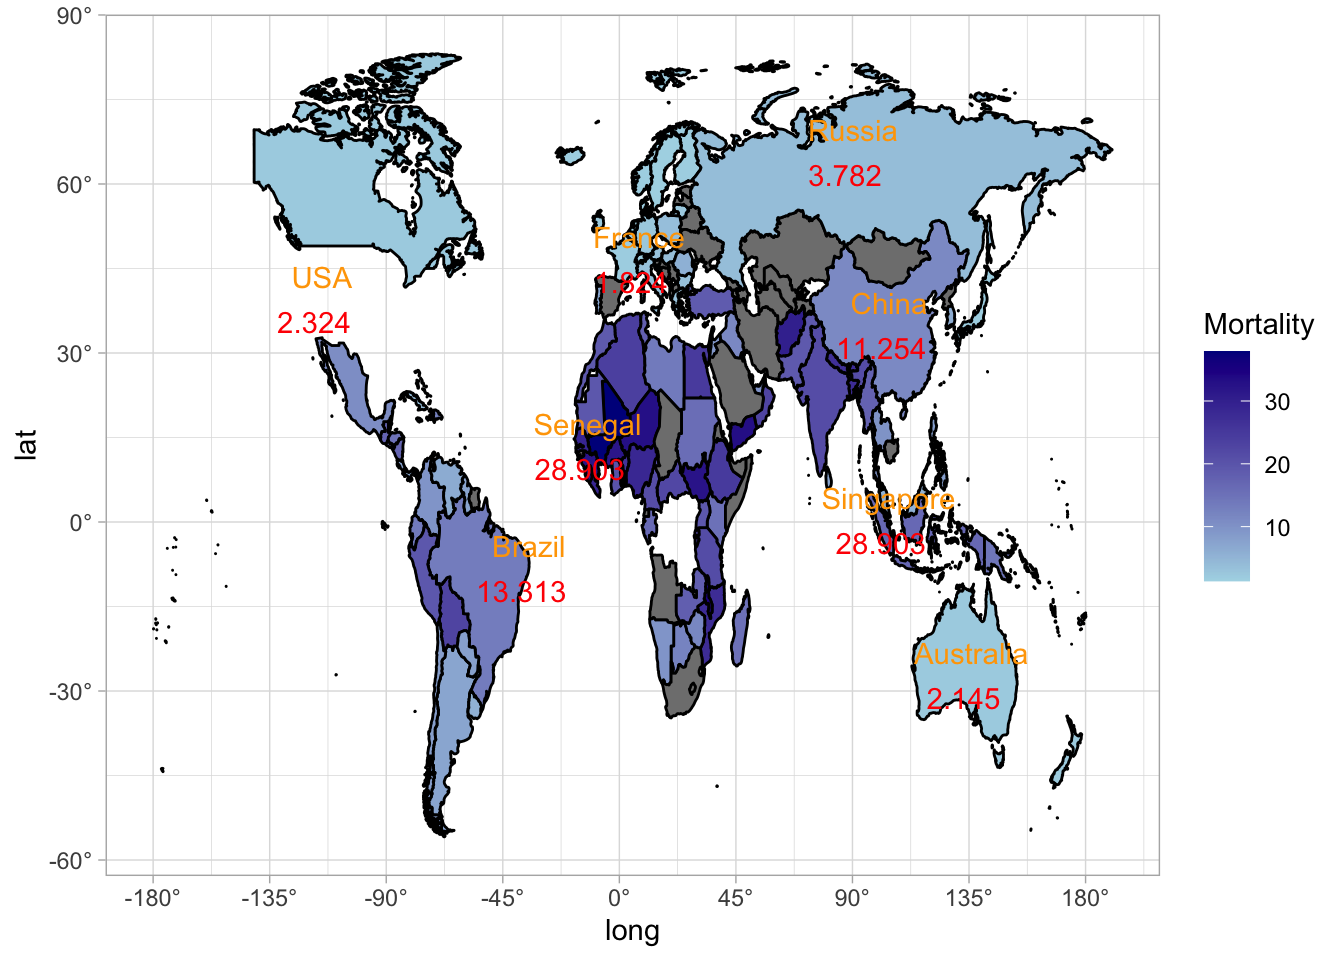
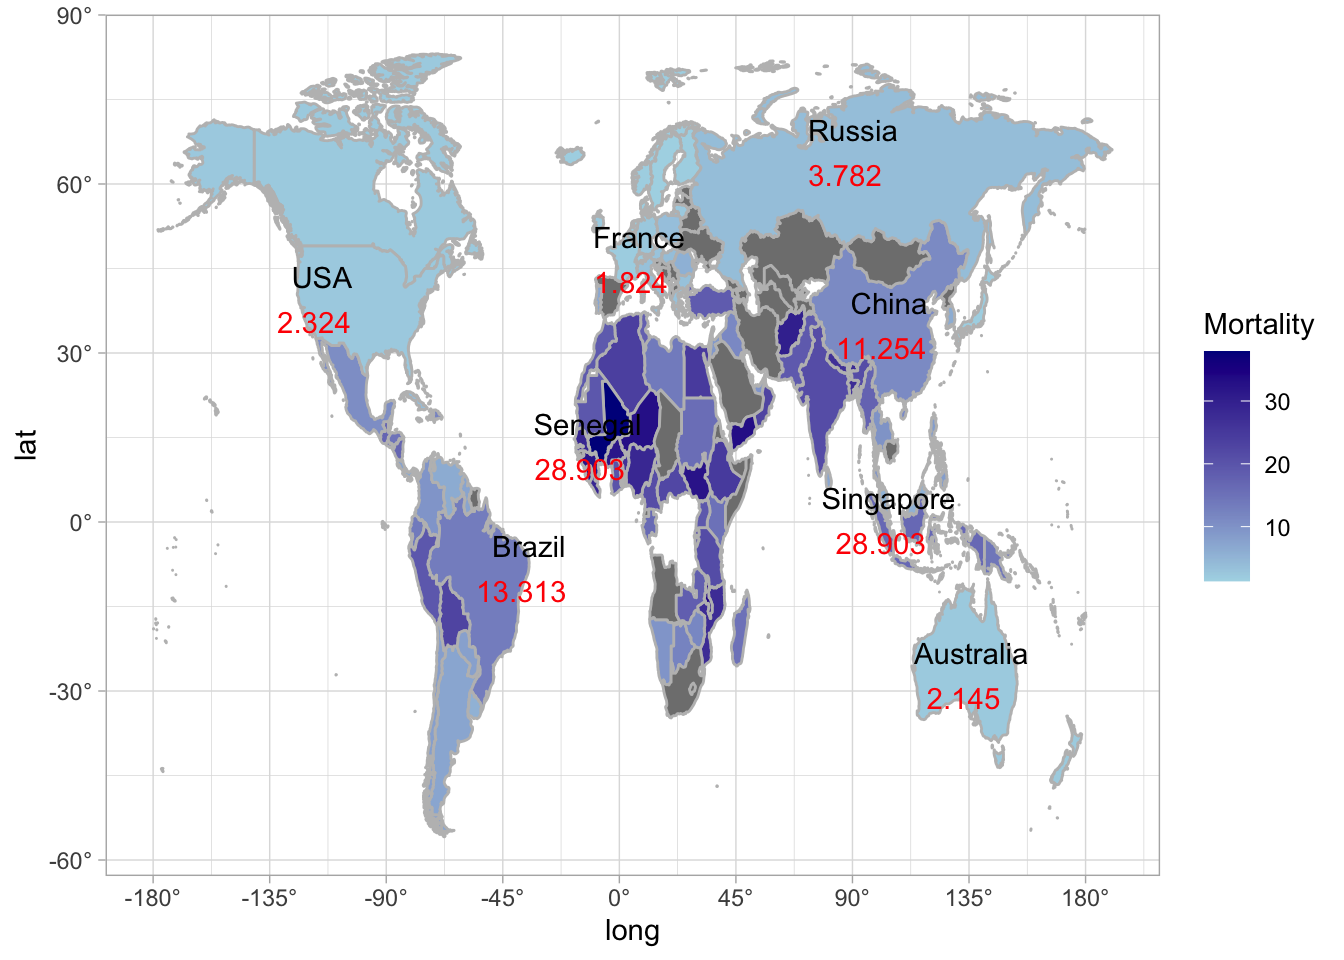
blah

diff --git a/content/big_picture.html b/content/big_picture.html
@@ -12,24 +12,60 @@ draft: false
 
 </div>
 
+<p>#add title</p>
+<p>#thesis/goal - what are we trying to show - for general public</p>
 <div id="the-state-of-the-worlds-children-under-the-age-of-5-what-countries-are-better-equipped-for-a-stronger-healther-generation" class="section level2">
 <h2>The State of the World’s Children Under the Age of 5: what countries are better equipped for a stronger, healther generation?</h2>
 <p>After our analysis with the institutional data, we have outlined a few notable factors that potentially influence the world’s child mortality rates. With this information, we can provide possible suggestions about what can be done to uphold the standards of the countries with the lowest mortality rates for children under the age of 5.</p>
 <p>As you scroll through this page, you will see us comparing the countries with the lowest and highest mortality rates, and what factors differ between them.</p>
 <p>In the end, we hope that you are able to have more of an insight into the main differences between the state of children in countries across the world, over a span of time. This will also provide some awareness for future patterns as well.</p>
+<p>This comes from the file <code>content/big_picture.Rmd</code>.</p>
+<p><strong>Note</strong>: This page should have no code visible, i.e. use <code>echo=FALSE</code>.</p>
 <p>Here we show the relationships between mortality rates in every region and compare the years 1970 with 2020.</p>
+<p>*Note: Figures must be simple enough for the general audience to understand.</p>
+<p>After our analysis with the institutional data, we have outlined a few notable factors that potentially influence the world’s child mortality rates. With this information, we can provide possible suggestions about what can be done to uphold the standards of the countries with the lowest mortality rates for children under the age of 5.</p>
+<p>As you scroll through this page, you will see us comparing the top three countries with the lowest and highest mortality rates, and what factors differ between them.</p>
 <p>We see that there is a significant decrease in mortality rates over time. Looking at the four variables that contributed most to our model, we can conclude that even though they are obviously not the only factors that contribute to this overall decrease, they are considerably important and influential. So, these variables of nutrition have pulled some weight in the decline of children mortality rates.</p>
+<pre class="r"><code>library(maps)
+library(ggplot2)
+library(RColorBrewer)
+library(tidyverse)</code></pre>
 <pre><code>## ── Attaching packages ─────────────────────────────────────── tidyverse 1.3.2 ──
 ## ✔ tibble  3.1.8      ✔ dplyr   1.0.10
 ## ✔ tidyr   1.2.1      ✔ stringr 1.4.1 
-## ✔ readr   2.1.2      ✔ forcats 0.5.2 
+## ✔ readr   2.1.3      ✔ forcats 0.5.2 
 ## ✔ purrr   0.3.4      
 ## ── Conflicts ────────────────────────────────────────── tidyverse_conflicts() ──
 ## ✖ dplyr::filter() masks stats::filter()
 ## ✖ dplyr::lag()    masks stats::lag()
 ## ✖ purrr::map()    masks maps::map()</code></pre>
+<pre class="r"><code>library(dplyr)
+load(here::here(&quot;dataset/income_mortality.RData&quot;))
+world_map &lt;- map_data(&quot;world&quot;)</code></pre>
+<pre class="r"><code>best6 &lt;- act_world_map1970 %&gt;% 
+  filter(region == &quot;China&quot;| region == &quot;USA&quot;|region ==&quot;Brazil&quot;|region ==&quot;Russia&quot;|region ==&quot;Senegal&quot;|region == &quot;Singapore&quot;| region == &quot;Australia&quot;| region == &quot;France&quot;)
+
+best6 %&gt;% 
+  left_join(income_mortality)%&gt;% 
+  filter(Year == c(&quot;1970&quot;))%&gt;%
+  select(Country,long,lat,group,Mortality) -&gt; best6act</code></pre>
 <pre><code>## Joining, by = c(&quot;Year&quot;, &quot;Mortality&quot;, &quot;Income&quot;, &quot;Pop_size&quot;, &quot;Continent&quot;)</code></pre>
+<ul>
+<li>Quality and ease of use of the interactive components.
+Is it clear what can be explored using your interactive components?
+Does it enhance and reinforce your conclusions from the Big Picture?
+Plotly with default hover text will get no credit. Be creative!</li>
+</ul>
+<pre class="r"><code>mp&lt;-ggplot(act_world_map1970,aes(x = long, y = lat, group = group))+
+  geom_polygon(aes(fill = Mortality),color = &quot;grey&quot;)+
+  scale_x_continuous(breaks = seq(-180,210,45),labels = function(x){paste0(x,&quot;°&quot;)})+
+  scale_y_continuous(breaks = seq(-60, 100, 30), labels = function(x){paste0(x, &quot;°&quot;)})+
+  scale_fill_gradient(low = &quot;lightblue&quot;, high=&quot;dark blue&quot;) +
+  theme_light() </code></pre>
 <p><img src="/big_picture_files/figure-html/unnamed-chunk-6-1.png" width="672" /></p>
+<div id="explanation-of-figures" class="section level3">
+<h3>Explanation of Figures:</h3>
+</div>
 </div>
 <div id="the-big-conclusion" class="section level2">
 <h2>The Big Conclusion:</h2>
